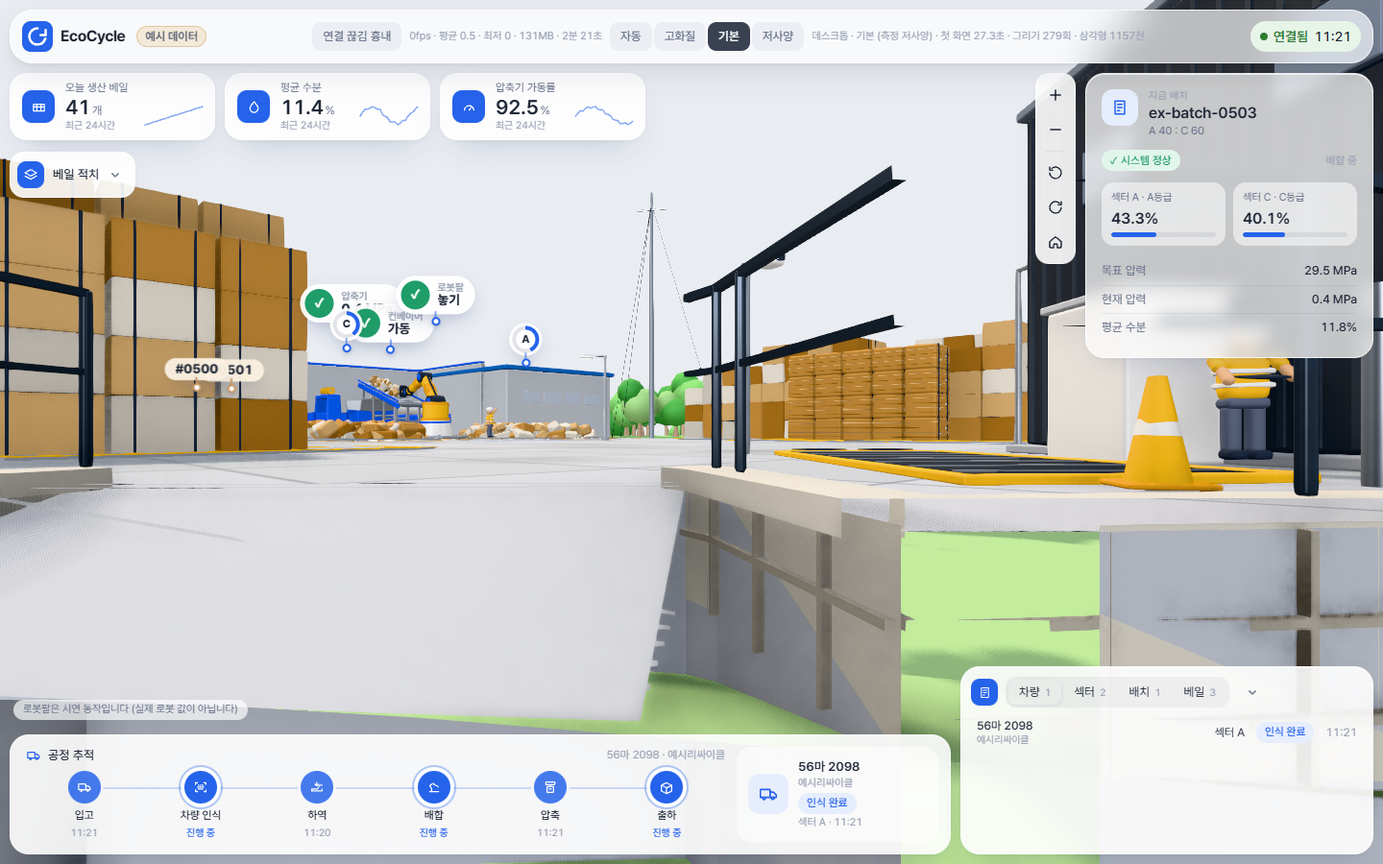
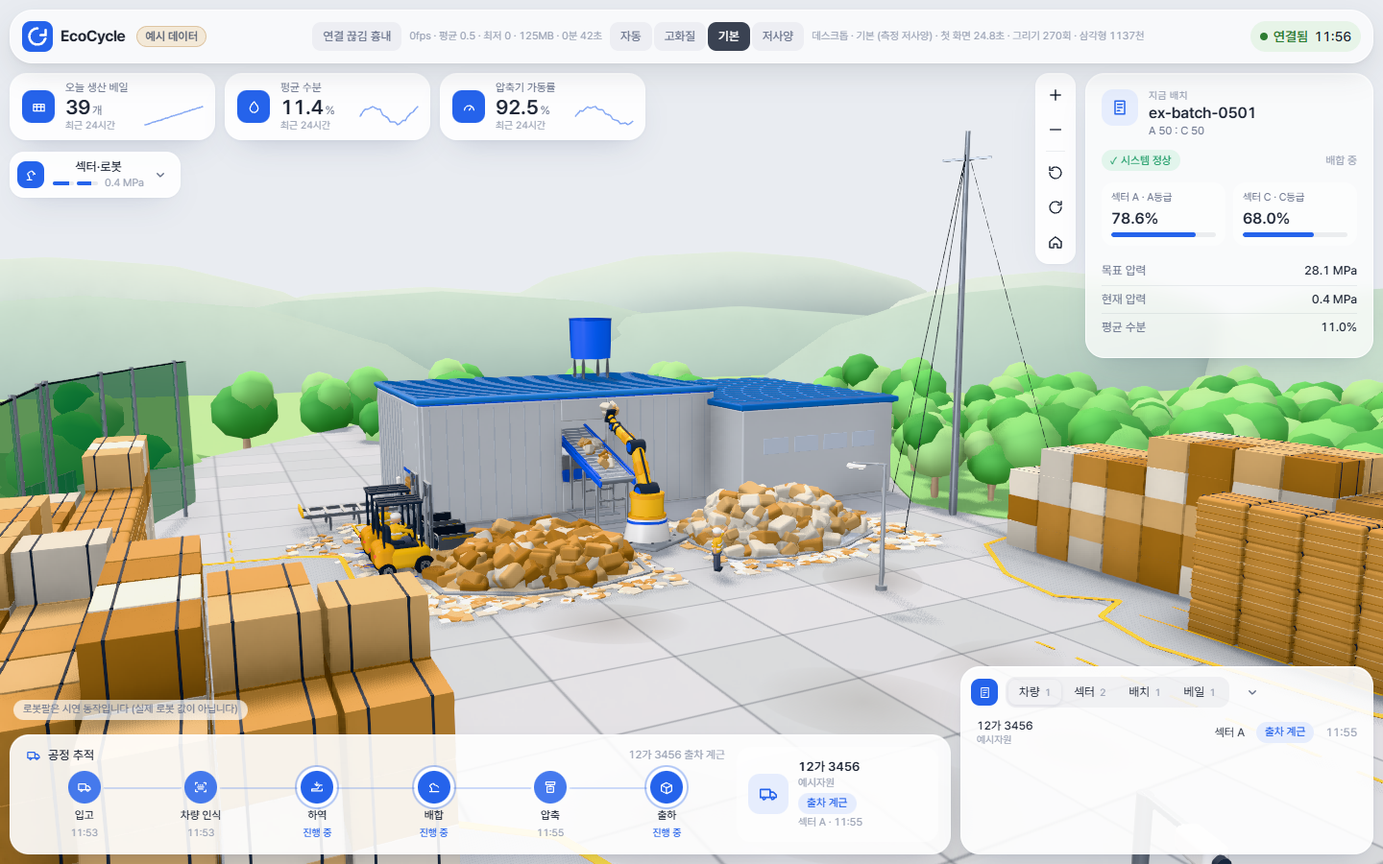
fix(studio): 렌더 트럭 수 시험, 입구·북동 사진 방향 화면(지붕·물탱크·능선), 폰 부지 전체, 눈높이에서 건물 그대로, 핀 겹침 정리, 같은 데이터 스냅샷 측정과 매초 패널 멈춤 줄이기

diff --git a/app/src/studio/actors/trucks.render.test.tsx b/app/src/studio/actors/trucks.render.test.tsx
@@ -1,0 +1,77 @@
+import ReactThreeTestRenderer from '@react-three/test-renderer';
+import type { Object3D } from 'three';
+import { describe, expect, it } from 'vitest';
+import type { Vehicle } from '@ecocycle/shared';
+import { onSiteVehicles } from '../../config/processDisplay';
+import { Director } from '../sim/director';
+import { Trucks } from './Actors';
+
+// 렌더와 연결된 차량 수 회귀 시험: 연출 감독의 값이 아니라, 프레임·React 갱신을 돌린 뒤
+// 장면 그래프에서 실제로 보이는(visible) 트럭 모형 루트를 센다 (모형 칸이 모자라 빠지는 차를 잡는다).
+
+const T0 = Date.parse('2026-10-16T09:00:00.000Z');
+const iso = (ms: number) => new Date(ms).toISOString();
+const STAGES = ['arrived', 'identified', 'unloading', 'unloaded', 'weighing_out', 'loading'] as const;
+
+function vehicles(n: number): Vehicle[] {
+  return Array.from({ length: n }, (_, i) => {
+    const stage = STAGES[i % STAGES.length]!;
+    const outbound = stage === 'loading';
+    return {
+      id: `v${i}`,
+      kind: outbound ? 'outbound' : 'inbound',
+      baleIds: [],
+      stage,
+      plate: stage === 'arrived' ? null : `1${i}가 0000`,
+      companyName: stage === 'arrived' ? null : '회사',
+      sectorId: stage === 'arrived' || outbound ? null : i % 2 ? 'sector-a' : 'sector-c',
+      stageTimes: { arrived: iso(T0 - 120_000), [stage]: iso(T0 - 60_000) },
+      updatedAt: iso(T0 - 60_000),
+    };
+  });
+}
+
+/** 장면에서 보이는 트럭 모형 루트 수 (덤프·윙바디 둘 중 보이는 쪽만, 루트와 조상이 모두 보여야 한다) */
+function visibleTrucks(scene: Object3D): number {
+  let n = 0;
+  scene.traverse((o) => {
+    if (typeof o.userData.truckIndex !== 'number') return;
+    for (let p: Object3D | null = o; p; p = p.parent) if (!p.visible) return;
+    n += 1;
+  });
+  return n;
+}
+
+describe('트럭 모형 렌더 (보이는 모형 수 = 표의 차량 N)', () => {
+  it('12대(처음 칸 8개를 넘음) → 모두 보이고, 5대 출차 → 7, 빈 목록 → 0', async () => {
+    const d = new Director();
+    // 장면을 먼저 올린다(처음 칸 8개) → 그 뒤 12대가 들어온다: 모형 칸이 그만큼 늘어나야 한다
+    const renderer = await ReactThreeTestRenderer.create(<Trucks director={d} onSelect={() => {}} />);
+    const list = vehicles(12);
+    d.sync({ devices: {}, vehicles: list, batches: [], bales: [] }, T0);
+    const scene = renderer.scene.instance as Object3D;
+    expect(visibleTrucks(scene)).toBe(0);
+    const frames = async () => {
+      // 모형 칸이 늘어나는 것은 React 상태라 프레임 → 다시 그리기 → 프레임을 돌린다
+      for (let i = 0; i < 3; i += 1) {
+        d.step(1 / 20);
+        await renderer.advanceFrames(2, 1 / 30);
+        await renderer.update(<Trucks director={d} onSelect={() => {}} />);
+      }
+    };
+    await frames();
+    expect(onSiteVehicles(list)).toHaveLength(12);
+    expect(visibleTrucks(scene)).toBe(12);
+
+    const departed = list.map((v, i) => (i < 5 ? { ...v, stage: 'departed' as const } : v));
+    d.sync({ devices: {}, vehicles: departed, batches: [], bales: [] }, T0 + 120_000);
+    await frames();
+    expect(onSiteVehicles(departed)).toHaveLength(7);
+    expect(visibleTrucks(scene)).toBe(7);
+
+    d.sync({ devices: {}, vehicles: [], batches: [], bales: [] }, T0 + 121_000);
+    await frames();
+    expect(visibleTrucks(scene)).toBe(0);
+    await renderer.unmount();
+  });
+});

diff --git a/app/src/studio/three/Fx.tsx b/app/src/studio/three/Fx.tsx
@@ -270,6 +270,10 @@ export function PinLayer({ director, pins }: { director: Director; pins: Mutable
   const gl = useThree((s) => s.gl);
   // 패널 밑으로 들어간 핀은 반쯤 가려진 채 보이지 않게 숨긴다 (지역 전환 판·지표 카드·상세·표와 핀이 겹쳐 보이지 않게)
   const covers = useRef<{ at: number; rects: Array<[number, number, number, number]> }>({ at: -Infinity, rects: [] });
+  // 핀 크기(px)는 패널 자리와 함께 가끔만 잰다 (매 장 읽으면 배치를 다시 계산하게 된다)
+  const sizes = useRef(new Map<string, [number, number]>());
+  const placed = useMemo(() => [] as Array<{ key: string; el: HTMLElement; x: number; y: number; z: number; rank: number }>, []);
+  const boxes = useMemo(() => [] as Array<[number, number, number, number]>, []);
   const v = useMemo(() => new Vector3(), []);
   const anchor = useMemo(() => ({ x: 0, y: 0, z: 0 }), []);
   const zoom = useRef('');
@@ -289,6 +293,10 @@ export function PinLayer({ director, pins }: { director: Director; pins: Mutable
             .filter((r) => r.width > 0 && r.height > 0)
             .map((r) => [r.left - base.left, r.top - base.top, r.right - base.left, r.bottom - base.top] as [number, number, number, number])
         : [];
+      for (const key in pins.current) {
+        const el = pins.current[key];
+        if (el && el.offsetWidth > 0) sizes.current.set(key, [el.offsetWidth, el.offsetHeight]);
+      }
     }
     if (level !== zoom.current) {
       const first = Object.values(pins.current).find((el) => el);
@@ -316,11 +324,27 @@ export function PinLayer({ director, pins }: { director: Director; pins: Mutable
         el.style.visibility = 'hidden';
         continue;
       }
-      el.style.visibility = 'visible';
-      if (key === 'plate:scan') writePlate(el, director);
-      el.style.transform = `translate3d(${x.toFixed(1)}px, ${y.toFixed(1)}px, 0) translate(-50%, -100%)`;
-      el.style.zIndex = String(Math.round((1 - v.z) * 100000));
+      // 고른 핀 → 번호판 인식 → 가까운 핀 순으로 자리를 준다
+      const rank = el.getAttribute('aria-pressed') === 'true' ? 0 : key === 'plate:scan' ? 1 : 2;
+      placed.push({ key, el, x, y, z: v.z, rank });
     }
+    // 핀끼리 겹치면 뒤 차례의 핀을 숨긴다 (겹친 알약이 서로 가려 읽히지 않게)
+    placed.sort((a, b) => a.rank - b.rank || a.z - b.z);
+    boxes.length = 0;
+    for (const p of placed) {
+      const [w, h] = sizes.current.get(p.key) ?? [PIN_HALF_W * 2, PIN_H];
+      const box: [number, number, number, number] = [p.x - w / 2, p.y - h, p.x + w / 2, p.y];
+      if (p.rank > 0 && boxes.some(([l, tp, r, b]) => box[0] < r - 2 && box[2] > l + 2 && box[1] < b - 2 && box[3] > tp + 2)) {
+        p.el.style.visibility = 'hidden';
+        continue;
+      }
+      boxes.push(box);
+      p.el.style.visibility = 'visible';
+      if (p.key === 'plate:scan') writePlate(p.el, director);
+      p.el.style.transform = `translate3d(${p.x.toFixed(1)}px, ${p.y.toFixed(1)}px, 0) translate(-50%, -100%)`;
+      p.el.style.zIndex = String(Math.round((1 - p.z) * 100000));
+    }
+    placed.length = 0;
   });
   return null;
 }

diff --git a/app/src/studio/world/views.ts b/app/src/studio/world/views.ts
@@ -54,14 +54,14 @@ export const VIEWS: readonly ViewPreset[] = [WIDE_VIEW, TOP_VIEW, ...AREAS];
  */
 export const PHOTO_VIEWS: Record<string, ViewPreset> = {
   // 사람 눈높이(천정각 90도: 수평으로 봄, 눈높이 = height)에서 넓은 화각으로. azimuth는 보는 곳에서 카메라 쪽 방위(0 남, 90 동, 180 북)
-  // 입구 남동 도로(535,345 근처)에서 서쪽: 오른쪽 계근대 단 옹벽, 경사로, 남동 베일, 그 뒤 파란 지붕 공장·물탱크, 더미, 먼 능선
-  entrance: { key: 'photo-entrance', label: '입구에서', hint: 'entrance.png', tier: 'mid', at: [286, 323], height: 0.3, distance: 18, azimuth: 85, polar: 90, fov: 66 },
+  // 입구 남동 도로(535,345 근처) 조금 높은 눈(약 6m)에서 서쪽 압축기 건물 쪽으로: 오른쪽 계근대 단 옹벽, 경사로, 남동 베일, 그 뒤 파란 지붕 공장·물탱크, 더미, 먼 능선
+  entrance: { key: 'photo-entrance', label: '입구에서', hint: 'entrance.png', tier: 'mid', at: [170, 440], height: 2.5, distance: 27, azimuth: 104, polar: 82, fov: 50 },
   // 경사로 위(480,330 근처)에서 서쪽 (트럭이 지나는 자리라 차가 함께 찍힐 수 있다): 왼쪽 남동 베일 벽, 가운데 줄눈 마당과 멀리 북서 베일·숲 (사무실은 사진보다 오른쪽이라 화면 밖: 사무실은 weighbridge·approach·entrance에서 본다)
   gate: { key: 'photo-gate', label: '입구 안에서 서쪽', hint: 'from-gate-inside.png', tier: 'mid', at: [231, 352], height: 1.6, distance: 18, azimuth: 95, polar: 90, fov: 66 },
   // 계근대 단 남동 모서리 아래 도로(580,370 근처)에서 북서: 옹벽·난간, 노란 테두리 계근대, 사무실 남쪽 면, 왼쪽 베일
   weighbridge: { key: 'photo-weighbridge', label: '계근대 쪽', hint: 'weighbridge.png', tier: 'mid', at: [440, 232], height: 0.6, distance: 14, azimuth: 45, polar: 90, fov: 50 },
   // 사무실 북동쪽 도로(570,40 근처)에서 남쪽: 낮은 도로, 오른쪽 옹벽 위 2층 사무실 동쪽 면과 실외기, 전봇대·전선
-  approach: { key: 'photo-approach', label: '북동 도로에서', hint: 'approach.png', tier: 'mid', at: [552, 300], height: -0.2, distance: 19, azimuth: 176, polar: 90, fov: 58 },
+  approach: { key: 'photo-approach', label: '북동 도로에서', hint: 'approach.png', tier: 'mid', at: [552, 300], height: 0.6, distance: 19, azimuth: 176, polar: 88, fov: 58 },
   // 남동 바깥 도로(475,470 근처)에서 북서: 회색 철판 울타리 + 높은 녹색 그물망, 그 뒤 베일 벽, 오른쪽 멀리 사무실
   upperRoad: { key: 'photo-upper-road', label: '남동 도로에서', hint: 'from-upper-road.png', tier: 'mid', at: [334, 329], height: 2.0, distance: 16, azimuth: 45, polar: 90, fov: 64 },
 };

diff --git a/app/src/studio/DemoStudio.tsx b/app/src/studio/DemoStudio.tsx
@@ -12,14 +12,18 @@ import { EMPTY_DATA } from './types';
 import { studioStats } from './three/stats';
 import { useStudioTier } from './useStudioTier';
 
-/** 측정용: 한 프레임에 그린 횟수와 삼각형 수를 1초마다 읽는다 */
-function useDrawStats(): { calls: number; triangles: number } {
+/** 측정용: 한 프레임에 그린 횟수와 삼각형 수를 1초마다 읽는다. 따로 된 작은 조각이라 1초마다 화면 전체를 다시 그리지 않는다 */
+function DrawStats() {
   const [stats, setStats] = useState({ calls: 0, triangles: 0 });
   useEffect(() => {
-    const timer = setInterval(() => setStats({ calls: studioStats.calls, triangles: studioStats.triangles }), 1000);
+    const timer = setInterval(() => setStats((prev) => (prev.calls === studioStats.calls && prev.triangles === studioStats.triangles ? prev : { calls: studioStats.calls, triangles: studioStats.triangles })), 1000);
     return () => clearInterval(timer);
   }, []);
-  return stats;
+  return (
+    <>
+      그리기 {stats.calls}회 · 삼각형 {Math.round(stats.triangles / 1000)}천
+    </>
+  );
 }
 
 const DEVICE_LABEL = { phone: '폰', tablet: '태블릿', desktop: '데스크톱' } as const;
@@ -37,7 +41,6 @@ function tierFromUrl(): QualityTier | null {
 export function DemoStudio({ tabs, disconnected, paused, onFailed }: { tabs?: ReactNode; disconnected: boolean; paused: boolean; onFailed: () => void }) {
   const { data, startMs, lastReceivedAt } = useDemoData(disconnected);
   const jointSource = useMemo(() => demoSource(startMs), [startMs]);
-  const draw = useDrawStats();
   const [probed, setProbed] = useState<QualityTier | null>(null);
   const [chosen, setChosen] = useState<QualityTier | null>(tierFromUrl);
   const [firstFrameMs, setFirstFrameMs] = useState<number | null>(null);
@@ -74,7 +77,7 @@ export function DemoStudio({ tabs, disconnected, paused, onFailed }: { tabs?: Re
       </span>
       <span className="st-fps" role="status" aria-label="그리기 측정" data-tier={tier} data-first-frame={firstFrameMs ?? undefined}>
         {DEVICE_LABEL[device]} · {TIER_LABEL[tier]}
-        {probed ? ` (측정 ${TIER_LABEL[probed]})` : ''} · 첫 화면 {firstFrameMs === null ? '–' : `${(firstFrameMs / 1000).toFixed(1)}초`} · 그리기 {draw.calls}회 · 삼각형 {Math.round(draw.triangles / 1000)}천
+        {probed ? ` (측정 ${TIER_LABEL[probed]})` : ''} · 첫 화면 {firstFrameMs === null ? '–' : `${(firstFrameMs / 1000).toFixed(1)}초`} · <DrawStats />
       </span>
     </>
   );

diff --git a/app/src/studio/demo/demoData.ts b/app/src/studio/demo/demoData.ts
@@ -239,6 +239,33 @@ export function demoData(startMs: number, tSec: number): StudioData {
 }
 
 /** 1초에 한 번 예시 상태를 새로 만든다. 끊김을 흉내 내는 동안에는 값이 멈춘다 */
+/** 측정용 고정 데이터를 넣어 두는 세션 저장소 키 (주소에 ?snapshot이 있을 때만 읽는다) */
+export const DEMO_SNAPSHOT_KEY = 'ecocycle.demoSnapshot';
+
+/**
+ * 측정용(`/scene-demo?snapshot`): 측정 스크립트가 세션 저장소에 넣은 고정 데이터(같은 차량·베일·배치)를 쓴다.
+ * 서로 다른 코드(예: 기준 브랜치와 지금)를 같은 부하로 견줄 때만 쓴다. 화면 값은 여전히 "예시 데이터"다
+ */
+function snapshotFromSession(): StudioData | null {
+  if (typeof window === 'undefined' || !new URLSearchParams(window.location.search).has('snapshot')) return null;
+  const raw = sessionStorage.getItem(DEMO_SNAPSHOT_KEY);
+  if (!raw) return null;
+  try {
+    return JSON.parse(raw) as StudioData;
+  } catch {
+    return null;
+  }
+}
+
+const resend = (s: StudioData): StudioData => ({
+  ...s,
+  devices: { ...s.devices },
+  vehicles: s.vehicles.map((v) => ({ ...v })),
+  batches: s.batches.map((b) => ({ ...b })),
+  bales: s.bales.map((b) => ({ ...b })),
+  alarms: [...s.alarms],
+});
+
 export function useDemoData(disconnected: boolean): { data: StudioData; startMs: number; lastReceivedAt: string } {
   const startMs = useRef(Date.now()).current;
   const [tick, setTick] = useState(0);
@@ -251,6 +278,8 @@ export function useDemoData(disconnected: boolean): { data: StudioData; startMs:
     }, 1000);
     return () => clearInterval(timer);
   }, [disconnected, startMs]);
-  const data = useMemo(() => demoData(startMs, tick), [startMs, tick]);
+  const snapshot = useRef(snapshotFromSession()).current;
+  // (고정 데이터도 매초 새로 받은 것처럼 새 배열로 준다: 서버가 다시 보낸 값과 같은 일을 시킨다)
+  const data = useMemo(() => (snapshot ? resend(snapshot) : demoData(startMs, tick)), [snapshot, startMs, tick]);
   return { data, startMs, lastReceivedAt };
 }

diff --git a/app/src/studio/overlay/Panels.tsx b/app/src/studio/overlay/Panels.tsx
@@ -32,8 +32,19 @@ import type { CycleStep } from './text';
 // 모양은 참고 화면(docs/reference/)을 따른다: 얇은 상단 바 하나, 작고 가는 글씨, 카드마다 강조 숫자 하나,
 // 상세 패널은 4~5줄 + "자세히", 왼쪽 아래 둥근 단계 아이콘 줄, 오른쪽 아래 탭 표.
 
-const time = (iso: string | null | undefined) => (iso ? formatLocalTime(iso).slice(-8) : '–');
-const hhmm = (iso: string | null | undefined) => (iso ? formatLocalTime(iso).slice(-8, -3) : '–');
+/** 현지 시각 글자는 같은 시각이면 다시 만들지 않는다 (Intl 포맷터를 매번 새로 만들어 느린 화면에서 패널 갱신이 길어졌다) */
+const LOCAL_TIME = new Map<string, string>();
+const localTime = (iso: string): string => {
+  let s = LOCAL_TIME.get(iso);
+  if (s === undefined) {
+    if (LOCAL_TIME.size > 400) LOCAL_TIME.clear();
+    s = formatLocalTime(iso);
+    LOCAL_TIME.set(iso, s);
+  }
+  return s;
+};
+const time = (iso: string | null | undefined) => (iso ? localTime(iso).slice(-8) : '–');
+const hhmm = (iso: string | null | undefined) => (iso ? localTime(iso).slice(-8, -3) : '–');
 
 export interface PanelCommon {
   data: StudioData;
@@ -156,7 +167,7 @@ export function DisconnectBanner({ lastReceivedAt }: { lastReceivedAt: string | 
       <div>
         <strong>연결 끊김</strong>
         <span>
-          모든 움직임을 멈췄습니다 · 마지막 수신 <time dateTime={lastReceivedAt ?? undefined}>{lastReceivedAt ? formatLocalTime(lastReceivedAt) : '없음'}</time>
+          모든 움직임을 멈췄습니다 · 마지막 수신 <time dateTime={lastReceivedAt ?? undefined}>{lastReceivedAt ? localTime(lastReceivedAt) : '없음'}</time>
         </span>
       </div>
     </div>

diff --git a/app/src/studio/world/Dynamic.tsx b/app/src/studio/world/Dynamic.tsx
@@ -21,6 +21,8 @@ import { buildWorld, edgeDistance, inside } from './buildWorld';
 const HIT = new MeshBasicMaterial({ transparent: true, opacity: 0, depthWrite: false });
 /** 압축기 건물의 파란 지붕을 걷는 카메라 거리 (부지 전체에서는 사진처럼 덮여 보이고, 구역 거리부터는 안이 보인다) */
 const ROOF_HIDE_DIST = 75;
+/** 카메라가 이보다 낮으면 땅에서 보는 화면으로 본다(m). 구역(mid)·대상(close) 보기는 이보다 높다 */
+const GROUND_VIEW_Y = 10;
 
 /** 마당 바닥 얼룩: 계근대 앞·트럭 길·쏟는 자리·배출구 앞 (월드 x, z, 반지름, 진하기) */
 const STAINS: ReadonlyArray<readonly [number, number, number, number]> = [
@@ -63,8 +65,10 @@ export function World({ baked = false }: { baked?: boolean }) {
     const dx = camera.position.x - cx;
     const dz = camera.position.z - cz;
     const len = Math.hypot(dx, dz) || 1;
-    for (const wall of world.walls) wall.group.visible = (wall.nx * dx + wall.nz * dz) / len < 0.18;
-    world.roof.visible = Math.hypot(dx, camera.position.y, dz) > ROOF_HIDE_DIST;
+    // 사람 눈높이(사진 방향 화면 등)에서는 건물을 밖에서 본 그대로 둔다: 벽·지붕(물탱크)을 걷지 않는다
+    const ground = camera.position.y < GROUND_VIEW_Y;
+    for (const wall of world.walls) wall.group.visible = ground || (wall.nx * dx + wall.nz * dz) / len < 0.18;
+    world.roof.visible = ground || Math.hypot(dx, camera.position.y, dz) > ROOF_HIDE_DIST;
   });
   return (
     <>

diff --git a/app/src/studio/three/Rig.tsx b/app/src/studio/three/Rig.tsx
@@ -250,7 +250,10 @@ export function Rig({ director, focusKey, api, inset }: RigProps) {
     const p = c.pol * DEG;
     // 세로 화면에서는 위아래가 남으므로 구역(mid)은 다 물러나지 않는다(최대 1.3배). 부지 전체(wide)는 좁은 폰에서도 부지가 다 들어오게 끝까지 물러난다
     const wideness = Math.min(1, Math.max(0, (c.dist - TIER_DISTANCE.mid) / (TIER_DISTANCE.wide - TIER_DISTANCE.mid)));
-    const fit = Math.min(1.3 + wideness * 1.7, Math.max(1, REFERENCE_ASPECT / Math.max(0.3, (size.width - insetRef.current.right) / Math.max(1, size.height))));
+    const ratio = REFERENCE_ASPECT / Math.max(0.3, (size.width - insetRef.current.right) / Math.max(1, size.height));
+    // (부지는 비스듬히 보면 기준 화면이 가정한 것보다 옆으로 넓다: 좁은 화면의 wide는 조금 더 물러나 서쪽 끝(압축기 건물)까지 담는다)
+    const narrow = Math.min(1, Math.max(0, (ratio - 1) / 1.5));
+    const fit = Math.min(1.3 + wideness * 2.3, Math.max(1, ratio) * (1 + 0.24 * wideness * narrow));
     const dist = c.dist * fit;
     // 패널에 가려지지 않게 보는 점을 화면에서 왼쪽·위로 민다
     const upp = (2 * dist * Math.tan((camera.fov * DEG) / 2)) / Math.max(1, size.height);

diff --git a/app/src/studio/world/buildWorld.ts b/app/src/studio/world/buildWorld.ts
@@ -417,14 +417,15 @@ function hills(k: Kit): void {
       forestTree(k, tx, top, tz, 1.4 + rnd() * 0.8, i + j);
     }
   }
-  // 먼 산 능선: 낮고 길게 겹친 둔덕 두 줄 (뒤쪽은 옅게)
+  // 먼 산 능선: 낮고 길게 겹친 둔덕 두 줄 (뒤쪽은 옅게). 꼭대기가 땅보다 peak m 위라 사람 눈높이에서도 숲 위로 보인다
   for (let i = 0; i < 18; i += 1) {
     const a = (i / 18) * Math.PI * 2;
-    for (const [r, tone, h] of [
-      [120, C.ridge, 16],
-      [170, C.ridgeFar, 24],
+    for (const [r, tone, peak] of [
+      [120, C.ridge, 9],
+      [170, C.ridgeFar, 16],
     ] as const) {
-      k.ball(tone, 34, [cx + Math.cos(a) * r, LOW - 34 + h * (0.6 + rnd() * 0.4), cz - Math.sin(a) * r], { scale: [1.6, 0.55, 1], seg: LITE ? 8 : 12, rot: [0, -a, 0] });
+      const top = LOW + peak * (0.7 + rnd() * 0.5);
+      k.ball(tone, 34, [cx + Math.cos(a) * r, top - 34 * 0.55, cz - Math.sin(a) * r], { scale: [1.6, 0.55, 1], seg: LITE ? 8 : 12, rot: [0, -a, 0] });
     }
   }
 }

diff --git a/app/src/studio/actors/Actors.tsx b/app/src/studio/actors/Actors.tsx
@@ -103,8 +103,12 @@ export function Trucks({ director, onSelect, blobs = false }: ActorProps) {
       const pair = pairs[i];
       if (!pair) return;
       const model = sim.outbound ? pair.wing : pair.dump;
-      (sim.outbound ? pair.dump : pair.wing).root.visible = false;
+      // 보이지 않는 모형은 장면 그래프의 행렬 갱신도 건너뛴다 (트럭 칸마다 모형이 둘이라 숨은 쪽이 매 장 부담이 된다)
+      const other = (sim.outbound ? pair.dump : pair.wing).root;
+      other.visible = false;
+      other.matrixWorldAutoUpdate = false;
       model.root.visible = sim.active;
+      model.root.matrixWorldAutoUpdate = sim.active;
       if (sim.active) {
         // 경사로·비탈 도로: 앞뒤 바퀴 자리의 바닥 높이로 차체를 기울인다
         const fx = Math.cos(sim.heading) * 1.45;

diff --git a/app/src/studio/CLAUDE.md b/app/src/studio/CLAUDE.md
@@ -51,7 +51,7 @@ glTF 모델, 새 색·재질·배치·핀·패널. 기존 재질·팔레트·배
   현장 사진(2026-11-25) 재질: 사무실 짙은 회색 골판 2층(세로 골, 서쪽 1층 차양·큰 창·소화기, 동쪽 실외기, 남서 흰 창고), 압축기 건물 회색 벽 + 파란 지붕 + 지붕 위 파란 물탱크, 동쪽 블록 옹벽 + 쇠 난간, 북·남 높은 녹색 그물망, 남동 회색 철판 울타리, 도로변 전봇대·전선, 숲 쪽 높은 철 기둥, 부지 둘레 낮은 숲 언덕과 먼 산 능선.
   **전체 채도를 빼지 않는다.** 회색 화면은 연결 끊김에만.
 - 빛: 따뜻한 해(2.6)와 또렷하고 부드러운 그림자 + 진한 주변 차폐. 노출을 올리면 밝은 바닥들이 같은 흰색으로 뭉개져 구역이 사라진다(두 번 겪었다: 빛을 바꾸면 렌더 결과 픽셀을 재서 확인하고, 모자라면 바닥 원색을 어둡게 한다).
-- 카메라 거리 세 단계(`world/layout.ts`): **wide** 부지 전체(`WIDE_VIEW`, 바로 위에서 북쪽이 위인 `TOP_VIEW`), **mid** 한 구역(`AREAS`, 첫 번째가 기본 화면), **close** 고른 대상(`CLOSE_DISTANCE`). 처음에는 wide에서 기본 구역으로 들어온다. 좁은 화면에서 wide는 부지가 다 들어오게 더 물러나고(구역은 최대 1.3배), 안개 범위는 카메라 거리를 따라간다. 사진 방향 화면(`PHOTO_VIEWS`)은 눈높이(천정각 90도)·넓은 화각(`fov`)이고 패널 비켜 밀기를 위아래로는 하지 않는다. 점검 스크립트는 `__studioView`(바로 옮김)와 `__cameraError`(목표에 닿았나)로 찍는다.
+- 카메라 거리 세 단계(`world/layout.ts`): **wide** 부지 전체(`WIDE_VIEW`, 바로 위에서 북쪽이 위인 `TOP_VIEW`), **mid** 한 구역(`AREAS`, 첫 번째가 기본 화면), **close** 고른 대상(`CLOSE_DISTANCE`). 처음에는 wide에서 기본 구역으로 들어온다. 좁은 화면에서 wide는 부지가 다 들어오게 더 물러나고(구역은 최대 1.3배), 안개 범위는 카메라 거리를 따라간다. 사진 방향 화면(`PHOTO_VIEWS`)은 눈높이(천정각 90도)·넓은 화각(`fov`)이고 패널 비켜 밀기를 위아래로는 하지 않는다. 점검 스크립트는 `__studioView`(바로 옮김)와 `__cameraError`(목표에 닿았나)로 찍는다. 카메라가 10m보다 낮으면(땅에서 보는 화면) 압축기 건물의 벽·지붕을 걷지 않는다. 먼 산 능선은 꼭대기가 땅보다 9~16m 위라 눈높이에서도 숲 위로 보인다. 핀끼리 겹치면 고른 핀 → 번호판 인식 → 가까운 핀 순으로 남기고 뒤 핀을 숨긴다(`Fx.tsx` `PinLayer`).
 - 화면: 상단 바는 앱 전체의 상단 바 하나(`components/layout/TopBar`)를 3D 위에 띄운 것이다(2026-10-16 사용자 요청, 스튜디오가 앱의 모양을 쓰는 유일한 예외). 홈에서는 앱 틀의 바를 넘겨받아(`components/layout/shellChrome.tsx`) `LiveStudio`가 `overlay` 모양으로 그려 `StudioView`의 `topBar`로 넘기고, 시연 화면은 `DemoStudio`가 측정 버튼을 가운데 칸에 넣어 넘긴다. 자리만 `studio.css`의 `st-topbar`가 정한다(스튜디오의 단추 초기화는 바 안을 건드리지 않고, `low`에서는 바의 흐림도 끈다). 장면 검색은 없다(2026-10-16 삭제). 카메라 지역 전환은 바 밖, 지도 도구 곁의 작은 판(`st-area-dock`). 화면 이동은 앱의 주 메뉴 하나로 한다: 폰은 화면 아래 탭 바(3D 영역은 그 위에서 끝난다), 태블릿·데스크톱은 왼쪽 사이드바(다른 화면과 같은 폭·같은 접힘 상태, 펼치면 3D 자리가 그만큼 좁아진다). 바의 거리(`--st-gap`, 폰 8px·그 밖 10px)는 일반 화면의 떠 있는 바(`AppShell`의 `SHELL_GAP_*`)와 같아야 한다. 스튜디오 안에 메뉴를 따로 만들지 않는다(2026-10-15 사용자 요청).
 - 패널: 성에 낀 흰 유리, 큰 모서리, 작고 가는 글씨, 카드마다 강조 숫자 하나, 상세 패널은 4~5줄 + "자세히", 표는 개수 붙은 탭 + 상태 알약.
 - 선택 표시: 흰 알약 핀(상태 점 ✓ 또는 섹터 적재율 고리 + 이름 + 짧은 값, 아래에 가리키는 점), 고르면 파랑 칩. 멀리서와 폰 폭에서는 섹터 핀이 고리만. 선 상자, 굵게 퍼지는 고리, 고른 차량의 흐르는 점선과 목적지 3D 핀.
@@ -186,7 +186,7 @@ studio/
   4. 셰이더를 `renderer.compileAsync`로 미리 컴파일하고 첫 장을 그리면 준비 화면을 걷는다.
 - 포스터(`app/public/studio/poster-wide.jpg`, 세로 화면은 `poster-tall.jpg`)는 로그인 전에 받는 공개 파일이다: **빈 장면만**(데이터 없음, 로봇 기본 자세, 번호판·회사 이름·숫자·패널·핀 없음). `npm run poster`(`scripts/poster.mjs`, `/scene-demo?poster=1`)로 찍고, 화면에 글자가 있으면 멈춘다. 장면이 크게 바뀌면 다시 찍는다.
 - 첫 화면 시간 측정: `npm run measure:load`(`scripts/loadtime.mjs`): 프로덕션 빌드를 배포처럼(gzip, 다시 확인 캐시) 내주고 390×844 폰, 4G(4Mbps·150ms), CPU 4배 느림으로 로그인 → 지표 숫자, 로그인 → 3D 첫 장을 잰다. 결과는 `docs/decisions.md`.
-- **low는 같은 배치를 가볍게 그린다**(`buildWorld(lite)`, `Piles lite`): 나무 공 하나·성긴 숲, 언덕·능선 분할 낮춤, 바탕 베일 띠 없음, 파지 조각 절반, 더미 조각은 둥글리지 않은 상자. 쏟는 파지는 쏟는 트럭에만 칸을 준다(최대 4대). 2026-11-25 측정(GPU + CPU 4배 느림, 기준 cfff539와 같은 조건): low 초당 27.9~29.9장으로 기준과 같고 삼각형 43만(기준 40만), 폰 크기 low에서 100ms 넘는 멈춤 0번.
+- **low는 같은 배치를 가볍게 그린다**(`buildWorld(lite)`, `Piles lite`): 나무 공 하나·성긴 숲, 언덕·능선 분할 낮춤, 바탕 베일 띠 없음, 파지 조각 절반, 더미 조각은 둥글리지 않은 상자. 쏟는 파지는 쏟는 트럭에만 칸을 준다(최대 4대). 2026-11-25 측정(프로덕션 빌드, GPU + CPU 4배 느림, 기준 cfff539와 같은 데이터 스냅샷 `/scene-demo?snapshot`): low는 1440·820·390 모두 초당 30장(상한), 화면 갱신 간격 최대 26.8ms·50ms 넘는 멈춤 0번(기준도 같음), 삼각형 43만(기준 40만). 패널 쪽 매초 멈춤을 줄였다: 시각 글자 캐시(`Panels.tsx`), 시연 측정 글자는 작은 조각(`DemoStudio`의 `DrawStats`), 숨은 트럭 모형은 행렬 갱신을 건너뛴다.
 - 반복물은 합친 메시(`Kit`): 베일 블록·그물망·울타리·난간·전봇대·전선·나무·언덕·파지 조각은 재질별 메시 몇 개에 들어가 그리기 횟수가 늘지 않는다. 줄눈·얼룩은 텍스처(판 하나).
 - 측정 화면: `/scene-demo`(3D 홈만, 예시 데이터). 상단 바에 그린 장 수(지금·평균·최저), 메모리, 기기 종류·단계(측정값), 첫 화면까지 걸린 시간, 그리기 횟수·삼각형 수. 측정값과 묶음 크기는 `docs/decisions.md`.
 

diff --git a/docs/screenshots/studio/site-layout/README.md b/docs/screenshots/studio/site-layout/README.md
@@ -5,20 +5,20 @@
 실제 홈은 모의 서버 + `admin` 로그인 + 3D 홈(화질은 접속 측정값). 카메라는 점검 함수 `window.__studioView(key)`로 미끄러지지 않고 바로 옮기고,
 `window.__cameraError()`가 0에 가까운 채 0.6초 머문 뒤(목표에 닿음) 화면을 두 번 더 그리고 찍는다(정해진 시간만 기다리지 않는다).
 사진 방향 화면(`world/views.ts`의 `PHOTO_VIEWS`, 지역 전환 목록에는 없다)은 현장 사진처럼 **사람 눈높이에서 수평으로, 넓은 화각(세로 50~66도)**으로 본다.
-화면의 트럭·지게차는 그 순간의 서버 값(시연 원본·모의 서버)이라 사진 방향 화면에도 함께 찍힐 수 있다.
+화면의 트럭·지게차는 그 순간의 서버 값(시연 원본·모의 서버)이라 사진 방향 화면에도 함께 찍힐 수 있다. 사진 방향 화면은 건물·지형을 견주는 화면이라 찍는 동안 핀(상태 알약)을 가린다. 사람 눈높이(카메라 10m 아래)에서는 압축기 건물의 벽·지붕을 걷지 않고 밖에서 본 그대로 둔다.
 
 ## S2e 화면 (지금 장면)
 
 | 파일 | 크기 | 보는 곳 |
 | --- | --- | --- |
 | `demo-top-*.png`, `live-top-*.png` | 390×844·820×1180·1440×900 | **위에서 보기**: 바로 위에서, 사진처럼 북쪽이 위 (`overall.png`·`site-marked.png`와 견준다) |
-| `demo-wide-*.png`, `live-wide-*.png` | 〃 | **부지 전체**: 숲·언덕, 도로, 옹벽, 사무실, 압축기 건물까지 (폰·세로 태블릿은 부지가 다 들어오게 더 물러난다) |
+| `demo-wide-*.png`, `live-wide-*.png` | 〃 | **부지 전체**: 숲·언덕, 도로, 옹벽, 사무실, 서쪽 끝 압축기 건물까지 부지 전체 (폰·세로 태블릿은 비스듬한 부지 폭까지 담게 더 물러난다) |
 | `demo-default-*.png`, `live-default-*.png` | 〃 | 기본 구역 "섹터·로봇": 레일 축에 대칭인 큰 더미 A·C, 흩어진 파지 조각, 줄눈 바닥 |
 | `demo-photo-gate-*.png`, `live-photo-gate-*.png` | 〃 | **경사로 위 입구에서 서쪽** (`from-gate-inside.png`): 왼쪽 남동 베일 벽, 줄눈 마당, 로봇·더미·압축기 건물, 오른쪽 멀리 북서 베일과 숲. 사진의 사무실은 이 화각보다 오른쪽이라 화면 밖(사무실은 아래 세 화면) |
 | `demo-photo-weighbridge-*.png`, `live-photo-weighbridge-*.png` | 〃 | **계근대 단 남동 아래 도로에서 북서** (`weighbridge.png`): 블록 옹벽·쇠 난간, 노란 테두리 계근대·콘, 사무실 남쪽 면, 왼쪽 베일 |
 | `demo-photo-upperRoad-*.png`, `live-photo-upperRoad-*.png` | 〃 | **남동 바깥 도로에서 북서** (`from-upper-road.png`): 회색 철판 울타리 + 높은 녹색 그물망, 그 뒤 베일 벽, 오른쪽 계근대 단·사무실 |
-| `demo-photo-entrance-1440x900.png`, `live-photo-entrance-1440x900.png` | 1440×900 | **입구 남동 도로에서 서쪽** (`entrance.png`): 앞 경사로, 왼쪽 남동 베일, 가운데 로봇·더미와 파란 지붕 압축기 건물(물탱크), 오른쪽 계근대 단 옹벽·난간과 사무실 |
-| `demo-photo-approach-1440x900.png`, `live-photo-approach-1440x900.png` | 1440×900 | **북동 낮은 도로에서 남쪽** (`approach.png`): 남쪽으로 오르는 도로, 전봇대·전선, 오른쪽 옹벽 위 사무실 동쪽 면과 실외기 |
+| `demo-photo-entrance-1440x900.png`, `live-photo-entrance-1440x900.png` | 1440×900 | **입구 남동 도로 조금 높은 눈(약 6m)에서 서쪽** (`entrance.png`): 왼쪽 남동 베일·그물망, 가운데 회색 벽·파란 지붕 압축기 건물과 지붕 위 파란 물탱크, 그 앞 로봇·더미·지게차, 오른쪽 베일, 뒤로 숲과 먼 산 능선 |
+| `demo-photo-approach-1440x900.png`, `live-photo-approach-1440x900.png` | 1440×900 | **북동 낮은 도로에서 남쪽** (`approach.png`): 남쪽으로 오르는 도로, 전봇대·전선, 왼쪽 들판과 멀리 언덕·산 능선, 오른쪽 옹벽·난간 위 사무실 동쪽 면과 실외기 |
 | `demo-inbound-1440x900.png`, `live-inbound-1440x900.png` | 1440×900 | 입구·계근대 (경사로, 번호판 인식 카메라 기둥) |
 | `demo-baler-1440x900.png`, `live-baler-1440x900.png` | 1440×900 | 압축기·레일: 가로형 압축기, 남동 벽 배출구 뒤 금속 받침대(베일이 밀려 나옴)와 베일 저울, 경사 레일 |
 | `demo-bales-1440x900.png`, `live-bales-1440x900.png` | 1440×900 | 베일 적치: 울타리를 따라 이어진 남동 벽(칸 줄 + 뒤 한 줄, 4~5단), 북서 재고, 상차 자리의 윙바디, 지게차 |
